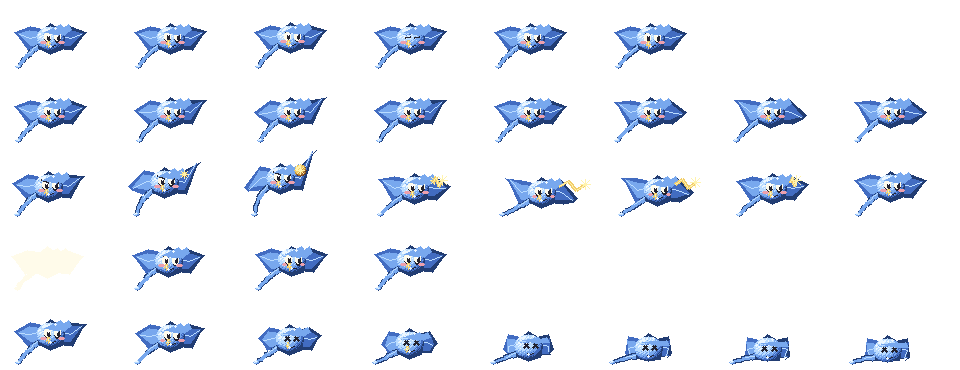
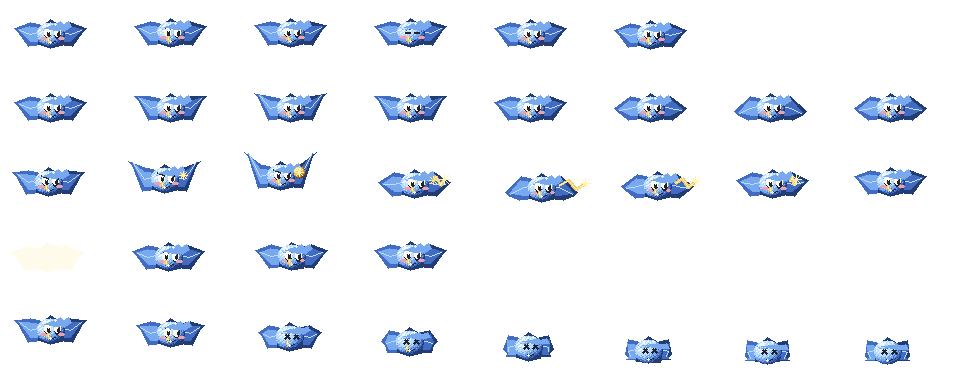
Bifrost Reach redo: make Skyray fly without a ground-touching tail

diff --git a/scripts/bifrost_slime_redraw.py b/scripts/bifrost_slime_redraw.py
@@ -477,22 +477,22 @@ def prismgolem(clip, n):
 
 
 # ----------------------------------------------------------------------------------------------
-# 3. Skyray: a storm-blue manta ray with smooth triangular pectoral fins and a long whipping tail whose tip trails along
-#    the ground row so the creature never floats disconnected from its anchor.
-#    Attack: banks back with both fins thrown high and a lightning orb charging between its horns, then surges forward and
-#    lashes a jagged lightning bolt ahead.
-#    Death: descends onto the ground, pectoral fins curl inward and drape flat, tail settles and lightning expires.
+# 3. Skyray: a flying storm-blue manta ray with smooth triangular pectoral fins (no ground-dragging tail).
+#    Hovers well above the ground in idle, walk, attack and hurt.
+#    Attack: banks back high in the air with both fins swept up and a lightning orb charging between its horns,
+#    then swoops forward and lashes a jagged lightning bolt ahead.
+#    Death: falls from mid-air onto the ground as its pectoral fins curl inward and lightning expires.
 # ----------------------------------------------------------------------------------------------
 RAY_A = dict(
     lean=[-2, -6, -10, 4, 11, 7, 2, 0],
-    by=[28, 32, 36, 26, 22, 24, 26, 28],
-    flap=[4, 14, 22, -4, -12, -8, -2, 0],
+    by=[32, 35, 38, 30, 26, 28, 30, 32],
+    flap=[4, 12, 18, -4, -10, -6, -2, 0],
     orb=[0, 3, 6, 2, 0, 0, 0, 0],
-    reach=[0, 0, 0, 10, 26, 20, 6, 0],
+    reach=[0, 0, 0, 12, 26, 20, 6, 0],
 )
 RAY_D = dict(
-    by=[28, 26, 23, 19, 16, 14, 13, 12],
-    curl=[0, .1, .3, .55, .78, .92, .98, 1],
+    by=[32, 29, 25, 20, 15, 11, 9, 8],
+    curl=[0, .12, .3, .55, .78, .92, .98, 1],
 )
 
 
@@ -509,44 +509,38 @@ def skyray(clip, n):
         lean, by, flap, orb, reach, curl = -fall*3, RAY_D['by'][n], (1-RAY_D['curl'][n])*4, 0, 0, RAY_D['curl'][n]
     else:
         lean = recoil
-        by = 28+bob*.8-hurt*.5
-        flap = math.sin(n*math.pi/4)*9 if clip == 'walk' else bob*1.5
+        by = 32+bob*1.2-hurt*.5
+        flap = math.sin(n*math.pi/4)*9 if clip == 'walk' else bob*1.8
         orb, reach, curl = 0, 0, 0.
 
-    # Smooth triangular pectoral fins
+    # Smooth triangular pectoral fins flapping together in flight
     for far in (True, False):
         sg = 1 if far else -1
         tipx = lean+sg*(36-curl*14)
-        tipy = max(4, by+8+(flap if far else -flap*.7)*(1-curl)-curl*12)
-        a.poly([(lean+sg*6, by+11), (lean+sg*20, by+14), (tipx, tipy), (tipx-sg*4, max(3, tipy-4)),
-                (lean+sg*22, max(4, by-10+curl*5)), (lean+sg*5, max(4, by-8))], 55 if far else 56)
-        a.poly([(lean+sg*7, by+8), (lean+sg*21, by+10), (tipx-sg*4, max(4, tipy-1)),
-                (lean+sg*20, max(5, by-5)), (lean+sg*7, max(5, by-6))], 56 if far else 57)
-        a.line([(lean+sg*10, by+5), (lean+sg*20, by+2), (tipx-sg*5, max(4, tipy-2))], 58, 1)
+        tipy = max(2, by+8+flap*(1-curl)-curl*10)
+        a.poly([(lean+sg*6, by+11), (lean+sg*20, by+14), (tipx, tipy), (tipx-sg*4, max(1, tipy-4)),
+                (lean+sg*22, max(2, by-10+curl*4)), (lean+sg*5, max(2, by-8))], 55 if far else 56)
+        a.poly([(lean+sg*7, by+8), (lean+sg*21, by+10), (tipx-sg*4, max(2, tipy-1)),
+                (lean+sg*20, max(3, by-5)), (lean+sg*7, max(3, by-6))], 56 if far else 57)
+        a.line([(lean+sg*10, by+5), (lean+sg*20, by+2), (tipx-sg*5, max(2, tipy-2))], 58, 1)
 
-    # Long whipping tail tapers down to graze the ground row (y=0 via foot(ry=2)), grounding every living frame.
-    sway = math.sin(n*math.pi/4)*3 if clip == 'walk' else bob
-    tx_tip = -32+lean*.4+sway*.5-curl*5
-    taper(a, bez((lean-10, by-5), (lean-24, max(6, by-14)), (tx_tip, 2)), BLUE, 5, 2)
-    foot(a, tx_tip, 0, 3, 2, BLUE)
-
-    a.poly([(lean-12, by+7), (lean, by+17), (lean+15, by+8), (lean+12, max(4, by-9)),
-            (lean, max(3, by-14)), (lean-12, max(4, by-8))], 55)
+    a.poly([(lean-12, by+7), (lean, by+17), (lean+15, by+8), (lean+12, max(2, by-9)),
+            (lean, max(1, by-12)), (lean-12, max(2, by-8))], 55)
     a.ball(lean, by+2, 14, 12, BLUE)
     a.ball(lean-4, by+8, 6, 3, BLUE[1:])
     a.face(lean+2, by+3, clip, n, .78)
     # Cephalic horn-fins
     for sg in (-1, 1):
-        a.poly([(lean+sg*6, by+8), (lean+14+sg*4, by+16-curl*6), (lean+18+sg*3, by+11-curl*6), (lean+11+sg*3, by+5)], 57)
+        a.poly([(lean+sg*6, by+8), (lean+14+sg*4, by+15-curl*5), (lean+18+sg*3, by+10-curl*5), (lean+11+sg*3, by+5)], 57)
     for x, dy in [(-5, 11), (5, 12), (0, -6)]:
-        a.ellipse(lean+x, max(3, by+dy), 1.4, 1, 59)
+        a.ellipse(lean+x, max(2, by+dy), 1.4, 1, 59)
     if clip != 'die' or n < 4:
-        bolt(a, lean-2, max(9, by-4), .45)
+        bolt(a, lean-2, max(7, by-4), .45)
     if orb > 0:
-        a.ball(lean+20, by+10, orb, orb, GOLD)
-        spark(a, lean+20, by+10, 29, 4)
+        a.ball(lean+19, by+6, orb, orb, GOLD)
+        spark(a, lean+19, by+6, 29, 4)
     if reach > 0:
-        bx0, by0 = lean+18, by+8
+        bx0, by0 = lean+18, by+5
         pts = [(bx0, by0), (bx0+reach*.35, by0+5), (bx0+reach*.65, by0-4), (bx0+reach, by0+2)]
         a.line(pts, 28, 3)
         a.line(pts, 29, 1)
@@ -772,15 +766,21 @@ def frame(kind, clip, n):
     grid = np.array(DRAW[kind](clip, n).im)
     if clip == 'die':                                       # a fallen body rests on the ground: never sunk, never floating
         rows = np.nonzero(grid.any(axis=1))[0]
-        if rows.size:
+        if rows.size and (kind != 'skyray' or n == 7 or int(rows.max()) > kay):
             grid = np.roll(grid, kay-int(rows.max()), axis=0)
     if clip == 'hurt' and n == 0:
         grid[grid > 0] = 3
     problem = None
+    low = int(np.nonzero(grid.any(axis=1))[0].max()) if grid.any() else -1
     if not grid.any() or grid[0].any() or grid[-1].any() or grid[:, 0].any() or grid[:, -1].any():
         problem = 'empty or touches the border'
-    elif clip != 'die' and int(np.nonzero(grid.any(axis=1))[0].max()) != kay:
-        problem = f'lowest row {int(np.nonzero(grid.any(axis=1))[0].max())} != anchor row {kay}'
+    elif kind == 'skyray':
+        if clip != 'die' and low > kay-12:
+            problem = f'skyray should fly well above anchor row {kay} (lowest row {low})'
+        elif clip == 'die' and low > kay:
+            problem = f'skyray death frame {n} sinks below anchor row {kay} (lowest row {low})'
+    elif clip != 'die' and low != kay:
+        problem = f'lowest row {low} != anchor row {kay}'
     if problem:
         BAD.append((kind, clip, n, problem))
         assert not STRICT, (kind, clip, n, problem)

diff --git a/docs/bifrost-slime-art.md b/docs/bifrost-slime-art.md
@@ -147,7 +147,7 @@ recovery to the idle silhouette), and satisfies `QUADRUPED-GROUNDING`:
 | --- | --- | --- | --- | --- |
 | Galehound | `124×76`, `(54,70)` | 60 | `7450f8bb136a9936` | `eb5eadd388c59b4b` |
 | Prism Golem | `120×102`, `(52,96)` | 85 | `f352194463eb9ae2` | `49c6de45376a59e7` |
-| Skyray | `120×74`, `(52,68)` | 45 | `2837ad79482c989d` | `bc4e43f2eeae58ed` |
+| Skyray | `120×74`, `(52,68)` | 49 | `2837ad79482c989d` | `bc4e43f2eeae58ed` |
 | Hollow Einherjar | `120×102`, `(46,96)` | 81 | `a78dbd54dc6acfa6` | `b264885a2869eeb3` |
 | Thunderroc | `130×82`, `(47,76)` | 66 | `0689197b87d81900` | `e55dd3cfa101cf61` |
 
